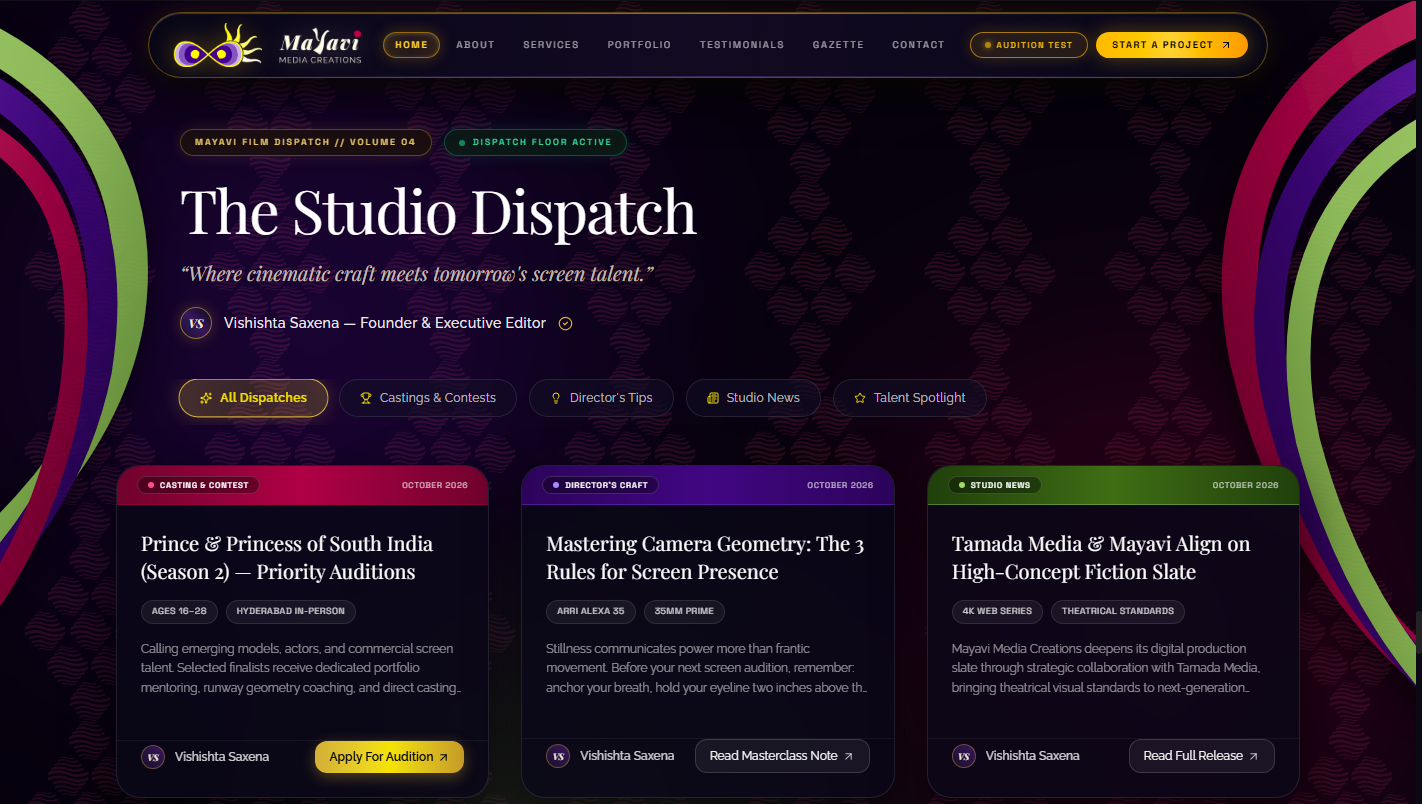
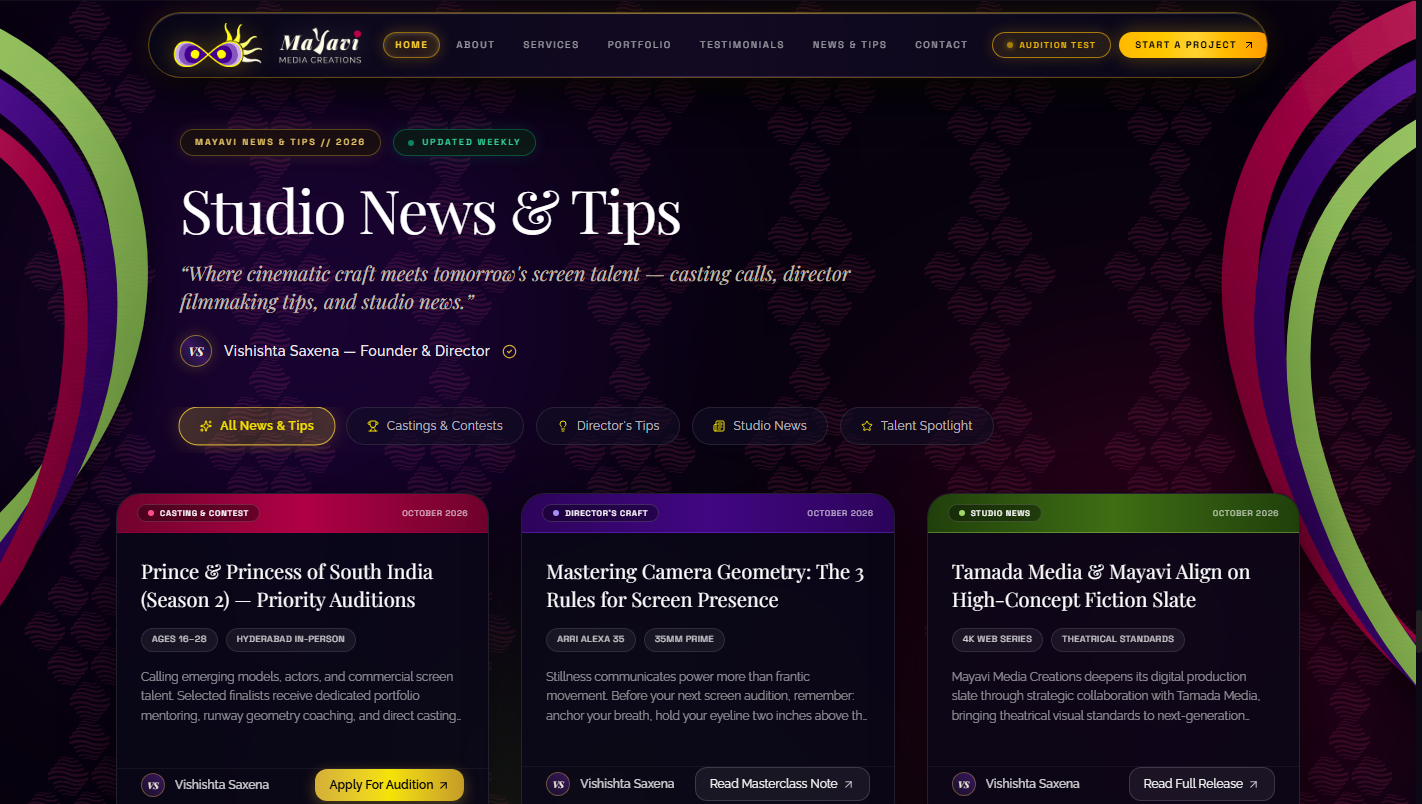
refactor(gazette): simplify copy to Studio News & Tips across navbar, badges, filters, and footer

diff --git a/src/components/GazetteSection.tsx b/src/components/GazetteSection.tsx
@@ -33,7 +33,7 @@ export default function GazetteSection({
   const [subscribeStatus, setSubscribeStatus] = useState<{ success?: boolean; message?: string } | null>(null);
 
   const categories = [
-    { id: 'ALL', label: 'All Dispatches', icon: <Sparkles size={12} className="text-[#f5e302]" /> },
+    { id: 'ALL', label: 'All News & Tips', icon: <Sparkles size={12} className="text-[#f5e302]" /> },
     { id: 'CONTEST', label: 'Castings & Contests', icon: <Trophy size={12} className="text-[#f5e302]" /> },
     { id: 'DIRECTOR_TIP', label: "Director's Tips", icon: <Lightbulb size={12} className="text-[#f5e302]" /> },
     { id: 'STUDIO_NEWS', label: 'Studio News', icon: <Newspaper size={12} className="text-[#f5e302]" /> },
@@ -113,7 +113,7 @@ export default function GazetteSection({
         };
       default:
         return {
-          badgeLabel: 'STUDIO DISPATCH',
+          badgeLabel: 'STUDIO UPDATE',
           bannerGradient: 'bg-gradient-to-r from-[#1c120c] via-[#38165c] to-[#1c120c]',
           bannerBorder: 'border-white/20',
           dotColor: 'bg-white',
@@ -269,26 +269,26 @@ export default function GazetteSection({
           <div className="flex flex-wrap items-center gap-3">
             <div className="inline-flex items-center gap-2 px-3.5 py-1.5 rounded-full bg-[#1c120c]/80 border border-[#d4af37]/35 shadow-[0_0_15px_rgba(212,175,55,0.15)] backdrop-blur-md">
               <span className="font-mono text-[9px] tracking-[0.22em] text-[#e5c365] uppercase font-bold">
-                MAYAVI FILM DISPATCH // VOLUME 04
+                MAYAVI NEWS &amp; TIPS // 2026
               </span>
             </div>
 
             <div className="inline-flex items-center gap-2 px-3.5 py-1.5 rounded-full bg-[#0a1e14]/80 border border-[#10b981]/35 shadow-[0_0_15px_rgba(16,185,129,0.15)] backdrop-blur-md">
               <span className="w-1.5 h-1.5 rounded-full bg-[#10b981] animate-pulse" />
               <span className="font-mono text-[9px] tracking-[0.2em] text-[#34d399] uppercase font-bold">
-                DISPATCH FLOOR ACTIVE
+                UPDATED WEEKLY
               </span>
             </div>
           </div>
 
           {/* Section Headline */}
           <h2 className="text-4xl sm:text-5xl md:text-6xl font-normal font-serif text-white tracking-tight leading-tight pt-1">
-            The Studio Dispatch
+            Studio News &amp; Tips
           </h2>
 
           {/* Subquote */}
           <p className="font-serif italic text-base sm:text-lg md:text-xl text-[#f0ebd8]/80 font-normal">
-            &ldquo;Where cinematic craft meets tomorrow&apos;s screen talent.&rdquo;
+            &ldquo;Where cinematic craft meets tomorrow&apos;s screen talent &mdash; casting calls, director filmmaking tips, and studio news.&rdquo;
           </p>
 
           {/* Founder Verification Seal */}
@@ -297,7 +297,7 @@ export default function GazetteSection({
               <span className="font-serif italic font-bold text-xs text-[#f0ebd8]">VS</span>
             </div>
             <span className="font-sans text-xs sm:text-sm text-white/90 font-medium tracking-wide">
-              {founderName} &mdash; Founder &amp; Executive Editor
+              {founderName} &mdash; Founder &amp; Director
             </span>
             <CheckCircle2 size={15} className="text-[#d4af37] shrink-0" />
           </div>
@@ -328,7 +328,7 @@ export default function GazetteSection({
         {filteredPosts.length === 0 ? (
           <div className="p-12 text-center rounded-3xl bg-[#090717]/80 border border-white/10 my-8">
             <p className="text-white/50 font-mono text-xs uppercase tracking-widest">
-              No dispatches currently listed in this category. Check back shortly.
+              No articles currently listed in this category. Check back shortly.
             </p>
           </div>
         ) : (
@@ -438,20 +438,20 @@ export default function GazetteSection({
           </div>
         )}
 
-        {/* Expandable toggle for additional archive posts when on All Dispatches */}
+        {/* Expandable toggle for additional archive posts when on All News & Tips */}
         {selectedCategory === 'ALL' && filteredPosts.length > 3 && (
           <div className="flex justify-center mt-6">
             <button
               onClick={() => setShowAllDispatches(!showAllDispatches)}
               className="inline-flex items-center gap-2 px-5 py-2 rounded-full bg-white/[0.04] border border-white/10 hover:border-[#d4af37]/40 text-white/70 hover:text-white font-mono text-[9px] tracking-widest uppercase transition-all cursor-pointer shadow-sm"
             >
-              <span>{showAllDispatches ? 'Show 3 Flagship Dispatches ▴' : `View All Dispatches (${filteredPosts.length}) ▾`}</span>
+              <span>{showAllDispatches ? 'Show 3 Featured Articles ▴' : `View All Articles (${filteredPosts.length}) ▾`}</span>
             </button>
           </div>
         )}
 
         {/* ============================================================ */}
-        {/* BOTTOM MASTER DOCK — OPTION D TELEMETRY & VIP DISPATCH BAR   */}
+        {/* BOTTOM MASTER DOCK — TELEMETRY & NEWSLETTER UPDATES BAR      */}
         {/* ============================================================ */}
         <div className="mt-14 lg:mt-20 relative z-10">
           <div className="rounded-2xl md:rounded-full bg-[#0c081b]/85 border border-white/15 backdrop-blur-2xl p-4 sm:px-8 sm:py-4 flex flex-col md:flex-row items-center justify-between gap-5 shadow-[0_20px_50px_rgba(0,0,0,0.6)]">
@@ -467,10 +467,10 @@ export default function GazetteSection({
             {/* Vertical Separator */}
             <div className="hidden md:block h-5 w-px bg-white/15 shrink-0" />
 
-            {/* Right VIP Dispatch Subscription Input */}
+            {/* Right Newsletter Subscription Input */}
             <form onSubmit={handleSubscribe} className="flex flex-col sm:flex-row items-center gap-3 w-full md:w-auto">
               <span className="font-serif text-sm text-[#f0ebd8] font-medium tracking-wide shrink-0">
-                VIP Dispatch
+                Studio Updates
               </span>
               <div className="relative w-full sm:w-auto flex items-center gap-2">
                 <input
@@ -478,7 +478,7 @@ export default function GazetteSection({
                   required
                   value={newsletterEmail}
                   onChange={(e) => setNewsletterEmail(e.target.value)}
-                  placeholder="Enter email for priority alerts..."
+                  placeholder="Enter email for audition & tip alerts..."
                   className="w-full sm:w-56 md:w-64 px-4 py-2 rounded-full bg-white/[0.04] border border-white/15 focus:border-[#d4af37] text-white placeholder-white/40 font-sans text-xs tracking-wide focus:outline-none transition-all shadow-inner"
                 />
                 <button
@@ -486,7 +486,7 @@ export default function GazetteSection({
                   disabled={isSubscribing}
                   className="px-5 py-2 rounded-full bg-gradient-to-r from-[#d4af37] via-[#f5e302] to-[#c59b27] hover:brightness-110 active:scale-95 text-[#050505] font-mono text-[10px] tracking-wider uppercase font-bold transition-all shadow-[0_2px_15px_rgba(212,175,55,0.3)] cursor-pointer shrink-0 disabled:opacity-50"
                 >
-                  {isSubscribing ? 'JOINING...' : 'JOIN THE CIRCLE'}
+                  {isSubscribing ? 'JOINING...' : 'GET UPDATES'}
                 </button>
               </div>
             </form>
@@ -599,7 +599,7 @@ export default function GazetteSection({
                 {activeModalPost.actionUrl && (
                   <div className="pt-4 border-t border-white/10 flex flex-col sm:flex-row items-center justify-between gap-4">
                     <span className="text-white/40 font-mono text-[8px] tracking-wider uppercase">
-                      Official Mayavi Studio Dispatch
+                      Official Mayavi Studio Article
                     </span>
 
                     <a

diff --git a/src/App.tsx b/src/App.tsx
@@ -1336,10 +1336,11 @@ export default function App() {
 
                 {/* Centered Navigation */}
                 <nav className="hidden lg:flex items-center space-x-0.5 xl:space-x-1 shrink-0 z-10">
-                  {['HOME', 'ABOUT', 'SERVICES', 'PORTFOLIO', 'TESTIMONIALS', 'GAZETTE', 'CONTACT'].map((item) => {
+                  {['HOME', 'ABOUT', 'SERVICES', 'PORTFOLIO', 'TESTIMONIALS', 'NEWS & TIPS', 'CONTACT'].map((item) => {
                     const itemLower = item.toLowerCase();
-                    const isActive = activeSection === itemLower;
-                    const targetId = itemLower === 'testimonials' ? 'client-stories' : itemLower;
+                    const isNews = item === 'NEWS & TIPS';
+                    const isActive = isNews ? (activeSection === 'gazette' || activeSection === 'news & tips') : activeSection === itemLower;
+                    const targetId = itemLower === 'testimonials' ? 'client-stories' : isNews ? 'gazette' : itemLower;
 
                     return (
                       <a
@@ -1426,10 +1427,11 @@ export default function App() {
                     className="lg:hidden w-full bg-[#090717]/95 backdrop-blur-2xl border border-white/10 rounded-2xl mt-2 overflow-hidden shadow-2xl p-6 space-y-4"
                   >
                     <div className="space-y-3">
-                      {['HOME', 'ABOUT', 'SERVICES', 'PORTFOLIO', 'TESTIMONIALS', 'GAZETTE', 'CONTACT'].map((item) => {
+                      {['HOME', 'ABOUT', 'SERVICES', 'PORTFOLIO', 'TESTIMONIALS', 'NEWS & TIPS', 'CONTACT'].map((item) => {
                         const itemLower = item.toLowerCase();
-                        const isActive = activeSection === itemLower;
-                        const targetId = itemLower === 'testimonials' ? 'client-stories' : itemLower;
+                        const isNews = item === 'NEWS & TIPS';
+                        const isActive = isNews ? (activeSection === 'gazette' || activeSection === 'news & tips') : activeSection === itemLower;
+                        const targetId = itemLower === 'testimonials' ? 'client-stories' : isNews ? 'gazette' : itemLower;
 
                         return (
                           <a
@@ -2284,13 +2286,13 @@ export default function App() {
                       </div>
                     </div>
 
-                    {/* MIDDLE VIP DISPATCH STRIP: "VIP DISPATCH // THE GAZETTE" */}
+                    {/* MIDDLE VIP NEWSLETTER STRIP: "VIP NEWSLETTER // STUDIO UPDATES" */}
                     <div className="rounded-2xl border border-white/5 bg-black/40 p-4 sm:p-6 lg:p-7 flex flex-col md:flex-row items-stretch md:items-center justify-between gap-6">
                       <div className="flex items-center space-x-3 text-left">
                         <div className="w-2.5 h-2.5 rounded-full bg-[#A2D865] shadow-[0_0_10px_#A2D865] animate-pulse" />
                         <div>
                           <span className="font-mono text-[10px] sm:text-xs tracking-[0.25em] text-white/90 uppercase font-semibold block">
-                            VIP DISPATCH // THE GAZETTE
+                            VIP NEWSLETTER // STUDIO UPDATES
                           </span>
                           <span className="text-[11px] text-white/45 font-sans font-light">
                             Director's essays, festival updates, castings & studio intelligence.
@@ -2369,11 +2371,11 @@ export default function App() {
                               const el = document.getElementById('gazette');
                               if (el) el.scrollIntoView({ behavior: 'smooth' });
                             }}
-                            title="The Studio Gazette"
+                            title="Studio News & Tips"
                             className="group relative flex items-center space-x-2 px-3 py-1.5 rounded-full bg-white/[0.03] hover:bg-[#410682]/40 border border-purple-500/30 hover:border-purple-400 transition-all cursor-pointer shadow-sm hover:shadow-[0_0_15px_rgba(147,51,234,0.25)]"
                           >
                             <img src="/patterns/d2.svg" alt="Stop Pin" className="w-4 h-5 object-contain" />
-                            <span className="font-mono text-[9px] tracking-wider text-white/70 group-hover:text-white uppercase font-bold">DISPATCH</span>
+                            <span className="font-mono text-[9px] tracking-wider text-white/70 group-hover:text-white uppercase font-bold">NEWS &amp; TIPS</span>
                           </button>
                         </div>
                       </div>
@@ -2419,7 +2421,7 @@ export default function App() {
                             { name: 'Featured Films', href: '#portfolio' },
                             { name: 'Commercials', href: '#portfolio' },
                             { name: 'Docuseries', href: '#portfolio' },
-                            { name: 'The Gazette', href: '#gazette' }
+                            { name: 'News & Tips', href: '#gazette' }
                           ].map((slate, idx) => (
                             <li key={idx}>
                               <a
